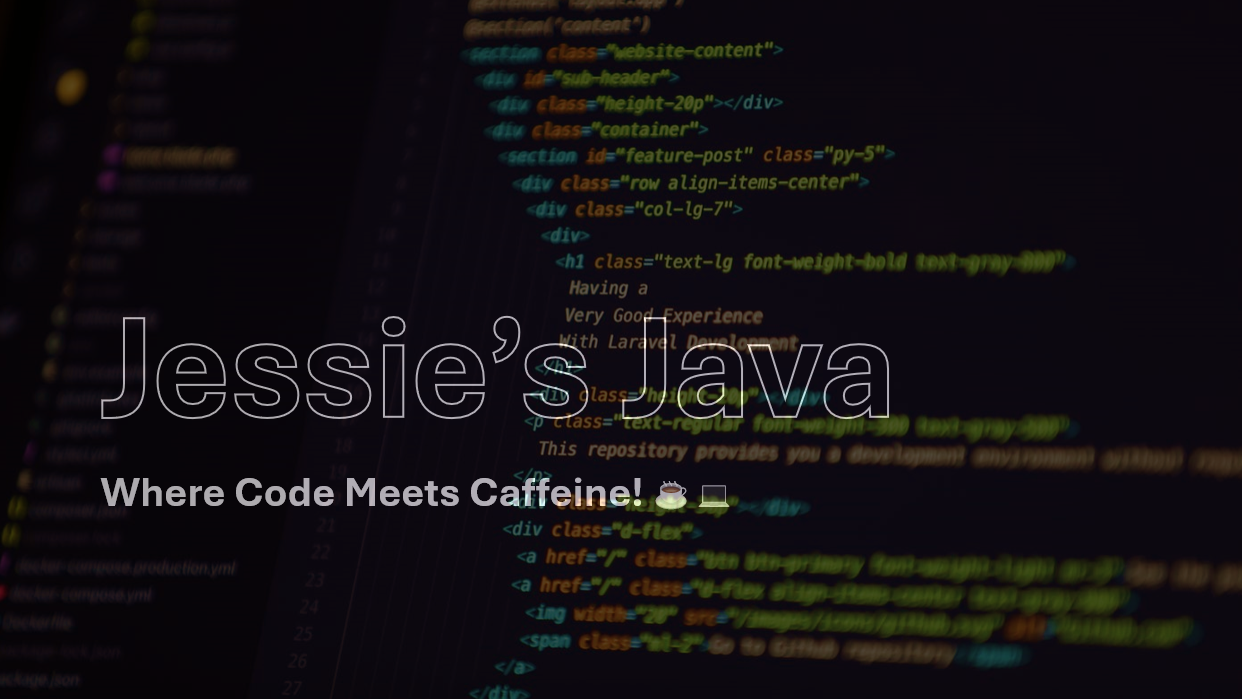
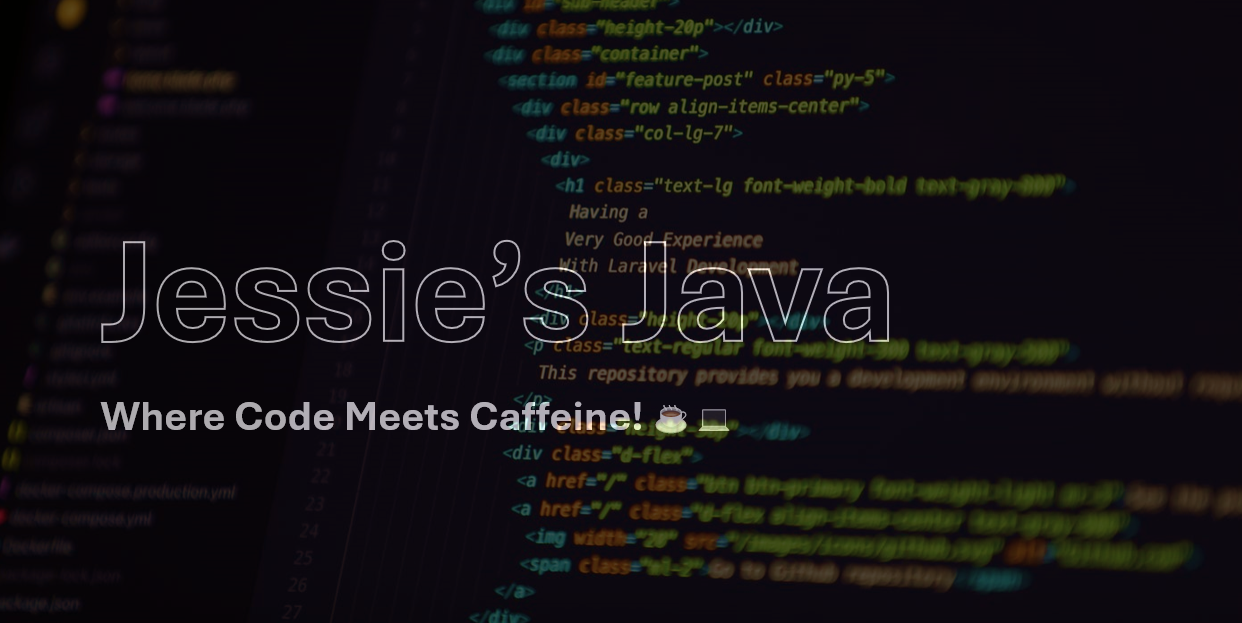
Crop hero images

diff --git a/style.css b/style.css
@@ -17,21 +17,10 @@ body{
     background-color: #b7b19e;
     padding-bottom: 100px;
 }
-.hero {
-    display: flex;
-    justify-content: center;
+.hero{
+    opacity: 80%;
     width: 100%;
-    height: 900px; /* Force hero section to grow */
-    overflow: hidden;
 }
-
-.hero img {
-    width: 100%;
-    height: 100%; /* Stretch the image */
-    object-fit: cover;
-    display: block;
-}
-
 nav{
     display: flex;
     justify-content: center;
@@ -385,7 +374,10 @@ button:hover {
     box-shadow: 0px 2px 5px #625750;
   }
 
-.accordion {
+
+
+
+ .accordion {
     width: 100%;
     max-width: 700px;
     margin: 20px auto;
